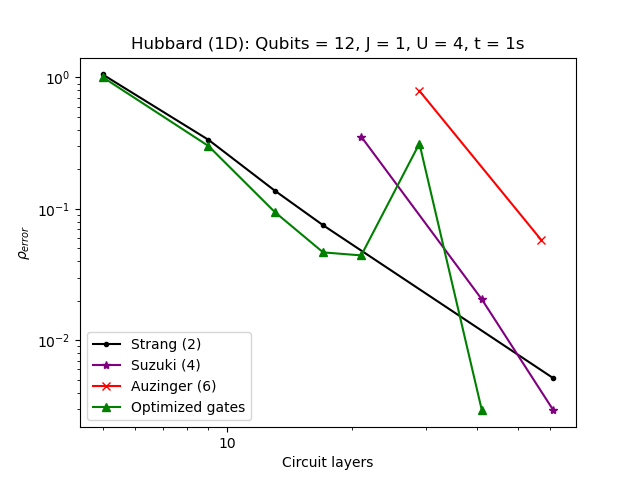
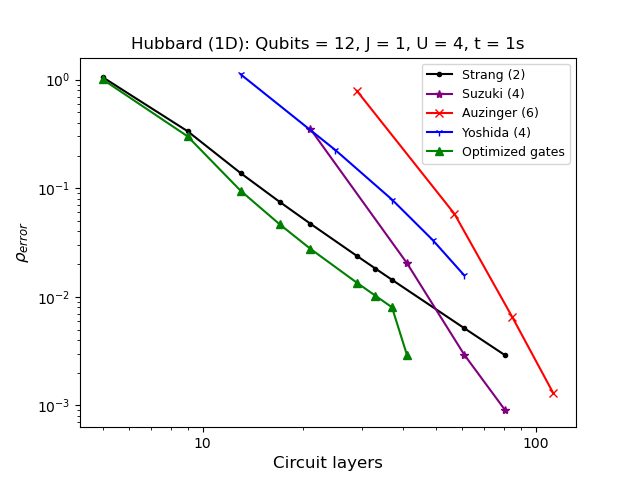
Minor sync

diff --git a/examples/hubbard1d/opt_out/q12/plot_opt.py b/examples/hubbard1d/opt_out/q12/plot_opt.py
@@ -21,9 +21,11 @@ file_list3 = glob.glob(f"{script_dir}/hubbard1d_auzinger6*u{ulayers}*t{t:.2f}s_g
 file_list4 = glob.glob(f"{script_dir}/hubbard1d_suzuki2*q{q}*u{ulayers}_t{t:.2f}s_g{g:.2f}*norm*.hdf5")
 file_list5 = glob.glob(f"{script_dir}/hubbard1d_suzuki4*q{q}*u{ulayers}_t{t:.2f}s_g{g:.2f}*norm*.hdf5")
 file_list6 = glob.glob(f"{script_dir}/hubbard1d_auzinger6*q{q}*u{ulayers}_t{t:.2f}s_g{g:.2f}*norm*.hdf5")
+file_list7 = glob.glob(f"{script_dir}/hubbard1d_yoshida4*q{q}*u{ulayers}_t{t:.2f}s_g{g:.2f}*norm*.hdf5")
 
 
-file_arr = [file_list1, file_list2, file_list3, file_list4, file_list5, file_list6]
+
+file_arr = [file_list1, file_list2, file_list3, file_list4, file_list5, file_list6, file_list7]
 
 opt_arr = []
 ini_arr = []
@@ -54,8 +56,8 @@ for file_list in file_arr:
     opt_arr.append(np.array(tmp_opt))
 
 
-optt_lay = np.append(np.append(layers_arr[0], layers_arr[1]), layers_arr[2])
-optt_err = np.append(np.append(opt_arr[0], opt_arr[1]), opt_arr[2])
+optt_lay = np.append(layers_arr[0], layers_arr[1][1:])
+optt_err = np.append(opt_arr[0], opt_arr[1][1:])
 
 
 xy1 = zip(optt_lay, optt_err)
@@ -71,6 +73,8 @@ ax.plot(np.append(layers_arr[1], layers_arr[4]), np.append(ini_arr[1], ini_arr[4
 ax.plot(np.append(layers_arr[2], layers_arr[5]), np.append(ini_arr[2], ini_arr[5]), 
         marker = "x", color = "red", label = "Auzinger (6)")
 
+ax.plot(layers_arr[6], ini_arr[6], marker="1", color="blue", label="Yoshida (4)")
+
 ax.plot(optt_lay, optt_err, marker = "^", color = "green", label = "Optimized gates")
 
 
@@ -78,12 +82,12 @@ ax.set_xscale("log")
 ax.set_yscale("log")
 ax.xaxis.set_major_formatter(ScalarFormatter())
 
-ax.set_xlabel("Circuit layers")
-ax.set_ylabel("$\\rho_{error}$")
+ax.set_xlabel("Circuit layers", fontsize=12)
+ax.set_ylabel("$\\rho_{error}$", fontsize=12)
 #ax.xaxis.set_major_locator(FixedLocator([10, 100, 600]))
 
 
 ax.set_title(f"Hubbard (1D): Qubits = {q}, J = {1}, U = {g}, t = {t}s")
-ax.legend()
+ax.legend(fontsize=9)
 fig.savefig(os.path.join(script_dir, f"hubb1d_q{q}_g{g:.2f}_t{t:.2f}_opt_norms.png"))
     

diff --git a/examples/spl_hubbard1d/opt_out/q10/plot_opt.py b/examples/spl_hubbard1d/opt_out/q10/plot_opt.py
@@ -66,6 +66,7 @@ xy1 = zip(optt_lay, optt_err)
 xy1_sorted = sorted(xy1, key = lambda pair: pair[0])
 optt_lay, optt_err = zip(*xy1_sorted)  
 
+print(optt_lay[-1], layers_arr[6][4], layers_arr[3][-1])
 
 fig, ax = plt.subplots()
 ax.plot(np.append(layers_arr[0],layers_arr[4][:5]), np.append(ini_arr[0],ini_arr[4][:5]),
